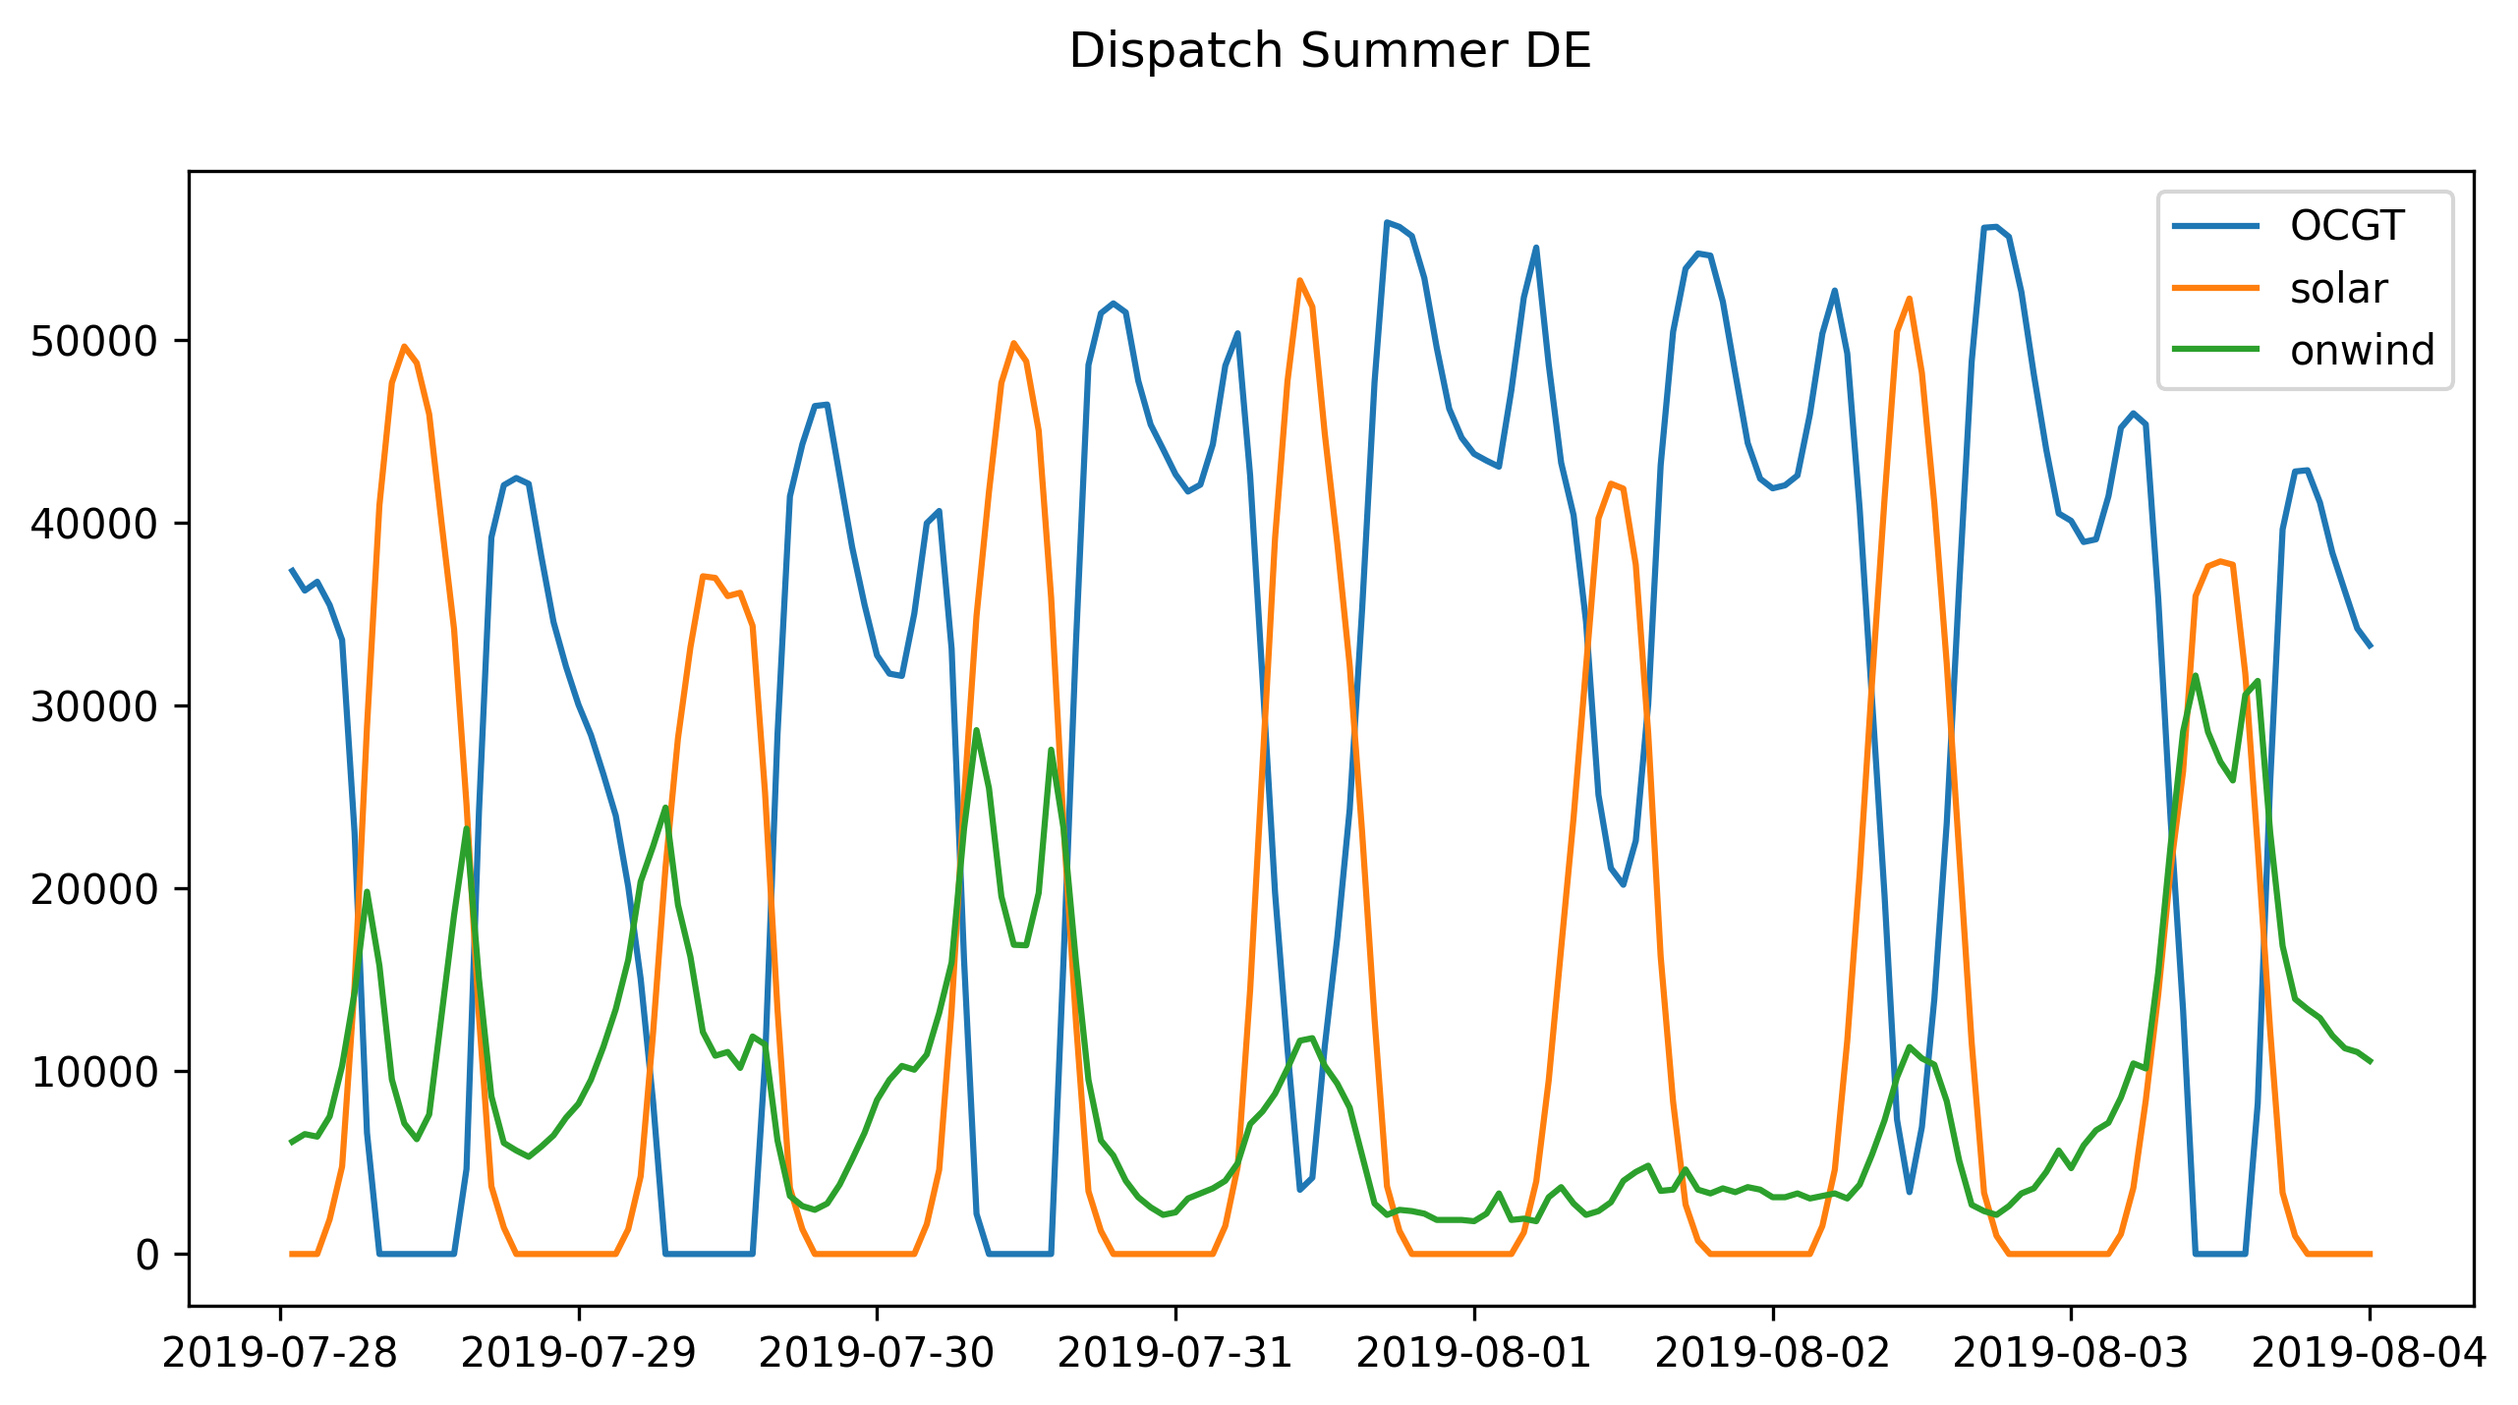
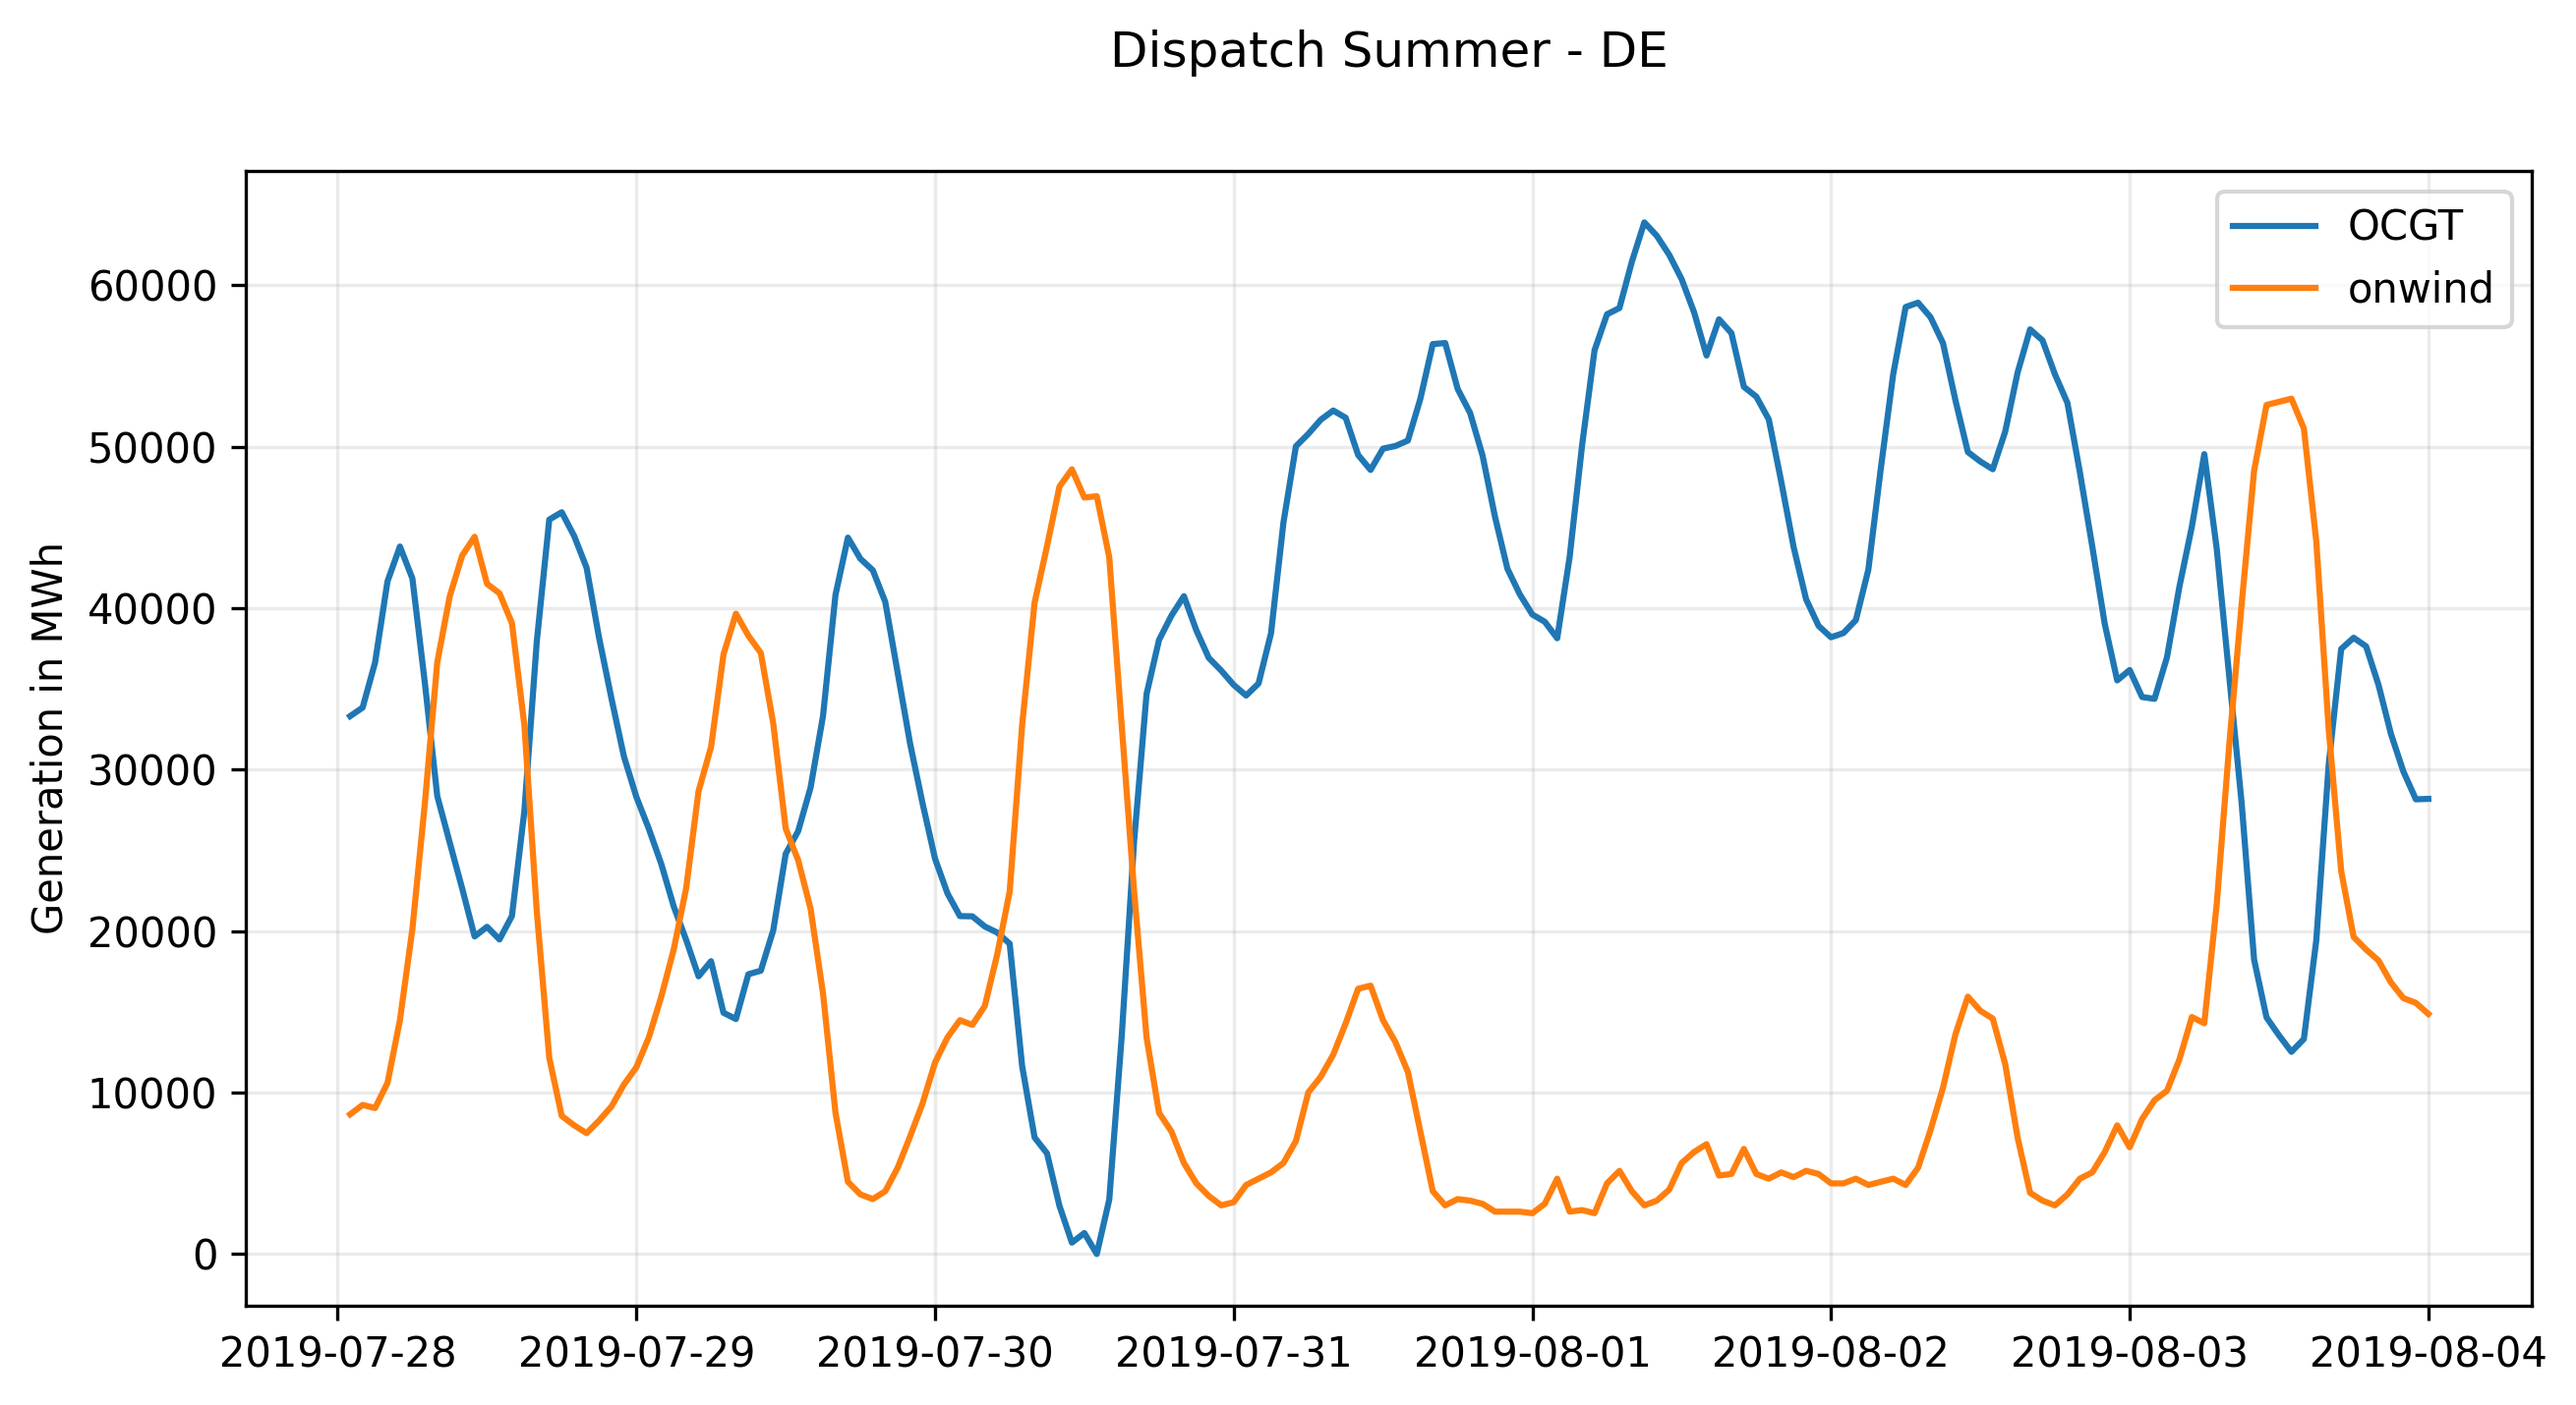
updated plots

diff --git a/PlotDispatch.py b/PlotDispatch.py
@@ -17,7 +17,9 @@ class PlotDispatch():
                 if generator.split(' ')[1] == region:
                     if self.base_network.network.generators.p_nom_opt[generator].sum() > 10:
                         plt.plot(self.base_network.network.generators_t.p[generator][0:7 * 24], label=generator.split(' ')[0])
-            plt.title(f'Dispatch Winter {region}', y=1.07)
+            plt.title(f'Dispatch Winter - {region}', y=1.07)
+            plt.ylabel('Generation in MWh')
+            plt.grid(True, which='major',alpha=0.25)
             plt.legend()
             #plt.savefig(f'./Plots/dispatch_{region}.png', dpi=300, bbox_inches='tight')
             plt.show()
@@ -27,8 +29,10 @@ class PlotDispatch():
                 if generator.split(' ')[1] == region:
                     if self.base_network.network.generators.p_nom_opt[generator].sum() > 10:
                         plt.plot(self.base_network.network.generators_t.p[generator][4993: 4993 + 7 * 24], label=generator.split(' ')[0])
-            plt.title(f'Dispatch Summer {region}', y=1.07)
+            plt.title(f'Dispatch Summer - {region}', y=1.07)
+            plt.ylabel('Generation in MWh')
             plt.legend()
+            plt.grid(True, which='major',alpha=0.25)
             #plt.savefig(f'./Plots/dispatch_{region}.png', dpi=300, bbox_inches='tight')
             plt.show()
 

diff --git a/AnnualElectricityMix.py b/AnnualElectricityMix.py
@@ -20,9 +20,9 @@ class AnnualElectricityMix():
                         sizes.append(self.base_network.network.generators.p_nom_opt[generator].sum())
             plt.pie(sizes,
             labels=labels,
-            wedgeprops={'linewidth':0})
+            wedgeprops={'linewidth':0},autopct='%1.1f%%')
             plt.axis('equal')
-            plt.title(f'Electricity mix {region}', y=1.07)
+            plt.title(f'Electricity mix - {region}', y=1.07)
             #plt.savefig(f'./Plots/electricity_mix_{region}.png', dpi=300, bbox_inches='tight')
             plt.show()
 
@@ -44,3 +44,4 @@ if __name__ == "__main__":
     tmp.network.optimize(solver_name="gurobi",solver_options={"OutputFlag": 0})
 
     PlotAnnualElectricityMix = AnnualElectricityMix(tmp)
+    PlotAnnualElectricityMix.plot_electricity_mix()
